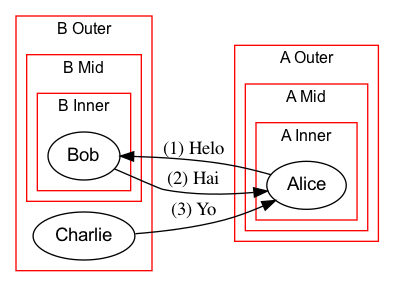
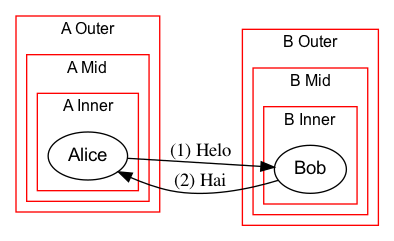
Added separate scene for Charlie

Changed region(s): [[0.0305, 0.029, 0.9746, 0.9585]]

diff --git a/examples/nest/ThreatModel.html b/examples/nest/ThreatModel.html
@@ -84,9 +84,29 @@
                 </tr>
                 
             
+        </table>
+
+  
+        <hr />
+        
+        <h2> Enter Charlie </h2>
+        <img src="Enter Charlie-dfd.png">
+        <table id="dataFlowTable">
+            <tr>
+            
+                <th>Flow ID</th>
+            
+                <th>Pitcher</th>
+            
+                <th>Catcher</th>
+            
+                <th>Data Flow</th>
+            
+            </tr>
+            
                 <tr>
                 
-                <td>3</td>
+                <td>1</td>
                 
                 <td>Charlie</td>
                 

diff --git a/example_nest.py b/example_nest.py
@@ -10,7 +10,9 @@ scenes = {
             Process("Bob").inBoundary(Boundary("B Inner").inBoundary(Boundary("B Mid").inBoundary(Boundary("B Outer")))),
             TLS("Helo"),
             response=TLS("Hai")
-        ),
+        )
+    ],
+    "Enter Charlie":[
         DataFlow(
             Process("Charlie").inBoundary(Boundary("B Outer")),
             Process("Alice"),
